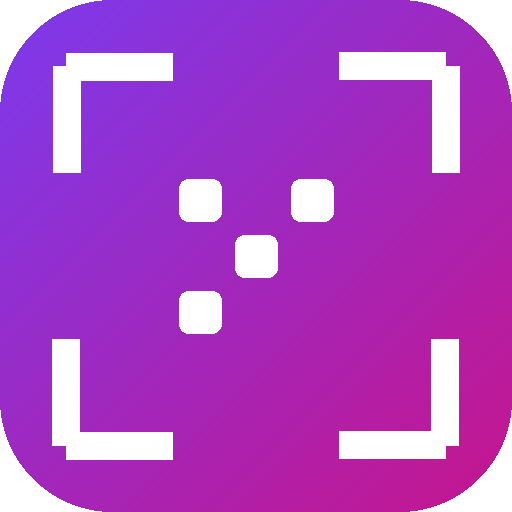
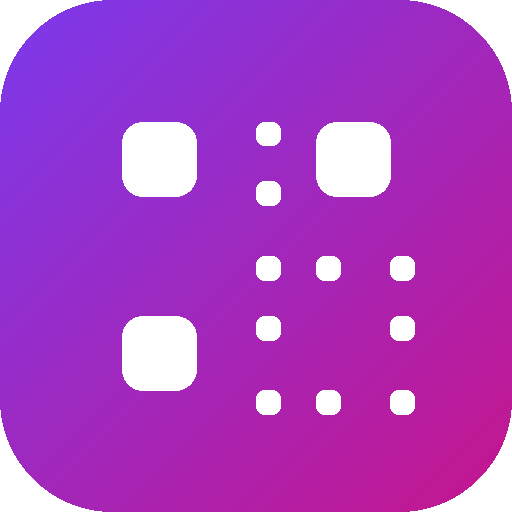
update dashboard

diff --git a/app/marta/photobooth/scan/page.jsx b/app/marta/photobooth/scan/page.jsx
@@ -10,7 +10,8 @@
  */
 import { useEffect, useState } from "react";
 import { useRouter } from "next/navigation";
-import { ChevronRight, Loader2, AlertTriangle, QrCode } from "lucide-react";
+import { ChevronRight, Loader2, AlertTriangle } from "lucide-react";
+import ScanQrGlyph from "../_scan-glyph";
 import { listRpvSessions } from "../../../../lib/rpv";
 import { PhotoboothPwaHead, usePhotoboothServiceWorker } from "../_pwa";
 
@@ -59,7 +60,7 @@ export default function RpvScanLanding() {
       </div>
       <div style={{ position: "relative", zIndex: 1, padding: "40px 20px 24px", textAlign: "center" }}>
         <div style={{ width: 64, height: 64, margin: "0 auto", borderRadius: 19, display: "flex", alignItems: "center", justifyContent: "center", background: `linear-gradient(135deg,${VIO},${MAGA})`, boxShadow: `0 12px 30px -8px ${MAGA}77` }}>
-          <QrCode size={28} color="#fff" />
+          <ScanQrGlyph size={28} color="#fff" strokeWidth={1.8} />
         </div>
         <div style={{ marginTop: 16, fontSize: 19, fontWeight: 800, color: INK, letterSpacing: "-0.01em" }}>Scanner Operator</div>
         <div style={{ marginTop: 5, fontSize: 12.5, color: SUB, fontWeight: 600, lineHeight: 1.5 }}>
@@ -86,7 +87,7 @@ export default function RpvScanLanding() {
             className="rpv-scango-card"
             style={{ width: "100%", display: "flex", alignItems: "center", gap: 12, textAlign: "left", background: `linear-gradient(180deg, ${CARD_HI} 0%, ${CARD} 100%)`, border: `1px solid ${LINE}`, borderRadius: 16, padding: "14px 14px", marginBottom: 10, cursor: leavingCode ? "default" : "pointer", fontFamily: FONT, opacity: leavingCode && leavingCode !== s.code ? 0.4 : 1, transition: "opacity .2s ease" }}>
             <span style={{ width: 42, height: 42, borderRadius: 12, flexShrink: 0, display: "flex", alignItems: "center", justifyContent: "center", background: `linear-gradient(135deg,${VIO}22,${MAGA}22)`, color: MAGA }}>
-              <QrCode size={18} />
+              <ScanQrGlyph size={18} strokeWidth={1.8} />
             </span>
             <div style={{ minWidth: 0, flex: 1 }}>
               <div style={{ fontSize: 14, fontWeight: 800, color: INK, overflow: "hidden", textOverflow: "ellipsis", whiteSpace: "nowrap" }}>{s.title}</div>

diff --git a/app/marta/photobooth/scan/[code]/page.jsx b/app/marta/photobooth/scan/[code]/page.jsx
@@ -16,7 +16,8 @@
  */
 import { useCallback, useEffect, useRef, useState } from "react";
 import { useParams } from "next/navigation";
-import { AlertTriangle, Check, Loader2, QrCode, Radio, ScanLine, Users } from "lucide-react";
+import { AlertTriangle, Check, Loader2, Radio, ScanLine, Users } from "lucide-react";
+import ScanQrGlyph from "../../_scan-glyph";
 import { getRpvSession, subscribeRpvOperatorPairing } from "../../../../../lib/rpv";
 import { PhotoboothPwaHead, usePhotoboothServiceWorker } from "../../_pwa";
 
@@ -191,7 +192,7 @@ function OperatorPicker({ sessionTitle, operators, onPick, wasPaired }) {
 
       <div style={{ position: "relative", zIndex: 1, textAlign: "center", marginTop: 8, marginBottom: 22 }}>
         <div style={{ width: 46, height: 46, borderRadius: 14, background: `linear-gradient(135deg,${VIO},${MAGA})`, display: "flex", alignItems: "center", justifyContent: "center", margin: "0 auto 14px" }}>
-          <QrCode size={22} color="#fff" />
+          <ScanQrGlyph size={22} color="#fff" strokeWidth={1.8} />
         </div>
         <div style={{ fontSize: 17, fontWeight: 800, color: INK, letterSpacing: "-0.01em" }}>{sessionTitle || "Sesi"}</div>
         <div style={{ fontSize: 12.5, color: MAGA, fontWeight: 700, marginTop: 6 }}>Pilih Operator</div>
@@ -473,7 +474,7 @@ function ScannerView({ sessionTitle, pairedLabel, lastSent, onChangeOperator, on
             {!camErr && (
               <button type="button" onClick={() => setManual(false)}
                 style={{ height: 44, borderRadius: 12, border: "1px solid rgba(255,255,255,0.18)", background: "transparent", color: "rgba(255,255,255,0.7)", fontFamily: FONT, fontSize: 13, fontWeight: 700, display: "flex", alignItems: "center", justifyContent: "center", gap: 8, cursor: "pointer" }}>
-                <QrCode size={14} /> Coba scan kamera lagi
+                <ScanQrGlyph size={14} strokeWidth={1.8} /> Coba scan kamera lagi
               </button>
             )}
           </form>

diff --git a/app/marta/photobooth/page.jsx b/app/marta/photobooth/page.jsx
@@ -23,7 +23,8 @@
  */
 import { useCallback, useEffect, useMemo, useRef, useState } from "react";
 import { useRouter } from "next/navigation";
-import { AlertTriangle, ArrowLeft, Camera, Check, Copy, FlipHorizontal2, FlipVertical2, ImageOff, ImagePlus, Loader2, Minus, Monitor, Plus, Printer, QrCode, Radio, RotateCw, Search, Settings, Sparkles, Trash2, X, ZoomIn } from "lucide-react";
+import { AlertTriangle, ArrowLeft, Camera, Check, Copy, FlipHorizontal2, FlipVertical2, ImageOff, ImagePlus, Loader2, Minus, Monitor, Plus, Printer, Radio, RotateCw, Search, Settings, Sparkles, Trash2, X, ZoomIn } from "lucide-react";
+import ScanQrGlyph from "./_scan-glyph";
 import { addRpvPrompt, createRpvSession, deleteRpvPhoto, deleteRpvPrompt, deleteRpvSession, findRpvPhotoByQueue, getRpvSession, listRpvPhotos, listRpvPrompts, listRpvSessions, rpvPublicUrl, subscribeRpvOperatorPairing, subscribeRpvPhotos, uploadRpvPromptImage } from "../../../lib/rpv";
 
 const FONT = `"Google Sans","DM Sans",-apple-system,BlinkMacSystemFont,"Segoe UI",Roboto,system-ui,sans-serif`;
@@ -774,7 +775,7 @@ function ScanLinkPopup({ code, onClose }) {
       <div onClick={(e) => e.stopPropagation()} style={{ width: "100%", maxWidth: 380, background: t.card, border: `1px solid ${t.line}`, borderRadius: 18, padding: 20 }}>
         <div style={{ display: "flex", alignItems: "center", justifyContent: "space-between", marginBottom: 12 }}>
           <div style={{ fontSize: 14, fontWeight: 800, color: t.hi, display: "flex", alignItems: "center", gap: 8 }}>
-            <QrCode size={16} color={MAGA} /> Link HP Scanner
+            <ScanQrGlyph size={16} color={MAGA} strokeWidth={1.8} /> Link HP Scanner
           </div>
           <button onClick={onClose} style={{ width: 28, height: 28, borderRadius: 9, border: "none", background: "rgba(255,255,255,0.08)", color: t.hi, display: "flex", alignItems: "center", justifyContent: "center", cursor: "pointer" }}>
             <X size={14} />

diff --git a/app/marta/photobooth/_scan-glyph.jsx b/app/marta/photobooth/_scan-glyph.jsx
@@ -1,0 +1,26 @@
+/**
+ * Ikon QR "viewfinder" khusus Scanner - diadaptasi dari referensi icon yang
+ * diberikan user (vecteezy "simple QR code line icon"): 4 bracket sudut
+ * (spt viewfinder kamera) + grid 2x2 modul QR (kotak bulat + titik tengah).
+ * Dipakai gantiin lucide `QrCode` di semua layar Scanner (biar desainnya
+ * "selaras" dgn ikon PWA Scanner yg sama persis) - SENGAJA beda dari ikon
+ * Camera/Mobile (yg tetap pakai ikon FlashPrint lama, terpisah).
+ */
+export default function ScanQrGlyph({ size = 24, color = "currentColor", strokeWidth = 2 }) {
+  return (
+    <svg width={size} height={size} viewBox="0 0 24 24" fill="none" xmlns="http://www.w3.org/2000/svg">
+      <path d="M2.5 8V5.5C2.5 3.84 3.84 2.5 5.5 2.5H8" stroke={color} strokeWidth={strokeWidth} strokeLinecap="round" strokeLinejoin="round" />
+      <path d="M16 2.5H18.5C20.16 2.5 21.5 3.84 21.5 5.5V8" stroke={color} strokeWidth={strokeWidth} strokeLinecap="round" strokeLinejoin="round" />
+      <path d="M21.5 16V18.5C21.5 20.16 20.16 21.5 18.5 21.5H16" stroke={color} strokeWidth={strokeWidth} strokeLinecap="round" strokeLinejoin="round" />
+      <path d="M8 21.5H5.5C3.84 21.5 2.5 20.16 2.5 18.5V16" stroke={color} strokeWidth={strokeWidth} strokeLinecap="round" strokeLinejoin="round" />
+      <rect x="5.3" y="5.3" width="5.4" height="5.4" rx="1.7" stroke={color} strokeWidth={strokeWidth} />
+      <circle cx="8" cy="8" r="1" fill={color} />
+      <rect x="13.3" y="5.3" width="5.4" height="5.4" rx="1.7" stroke={color} strokeWidth={strokeWidth} />
+      <circle cx="16" cy="8" r="1" fill={color} />
+      <rect x="5.3" y="13.3" width="5.4" height="5.4" rx="1.7" stroke={color} strokeWidth={strokeWidth} />
+      <circle cx="8" cy="16" r="1" fill={color} />
+      <rect x="13.3" y="13.3" width="5.4" height="5.4" rx="1.7" stroke={color} strokeWidth={strokeWidth} />
+      <circle cx="16" cy="16" r="1" fill={color} />
+    </svg>
+  );
+}
